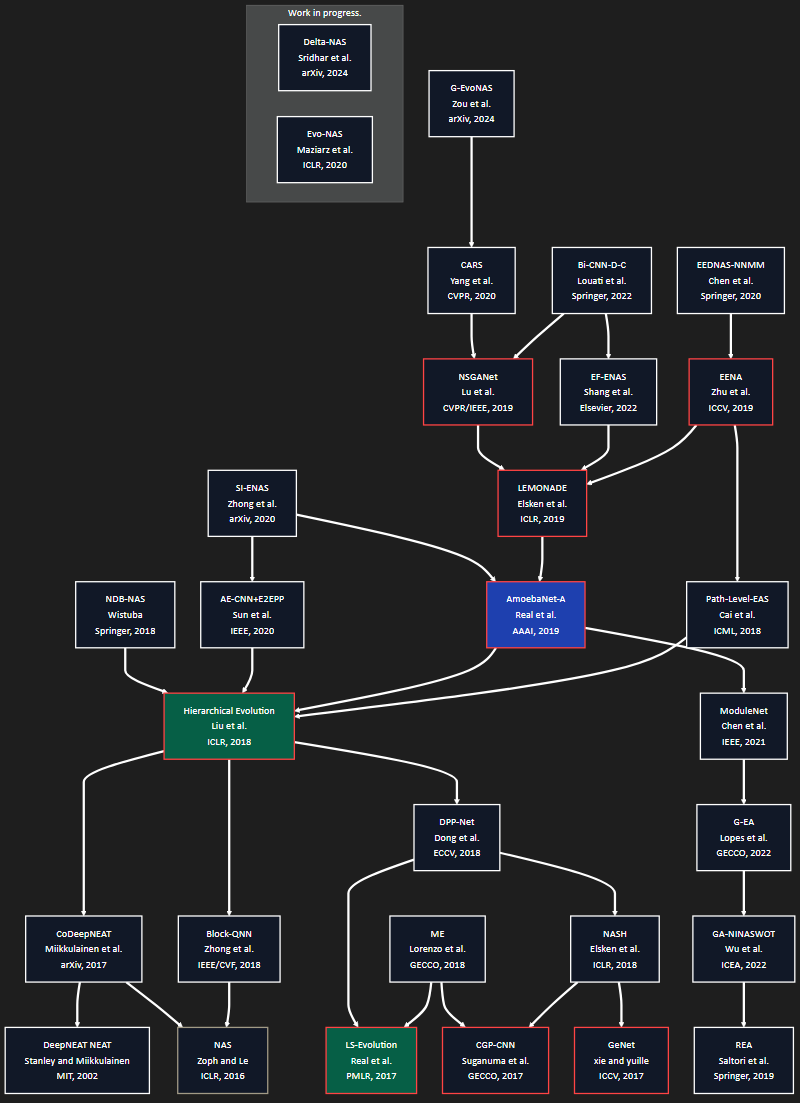
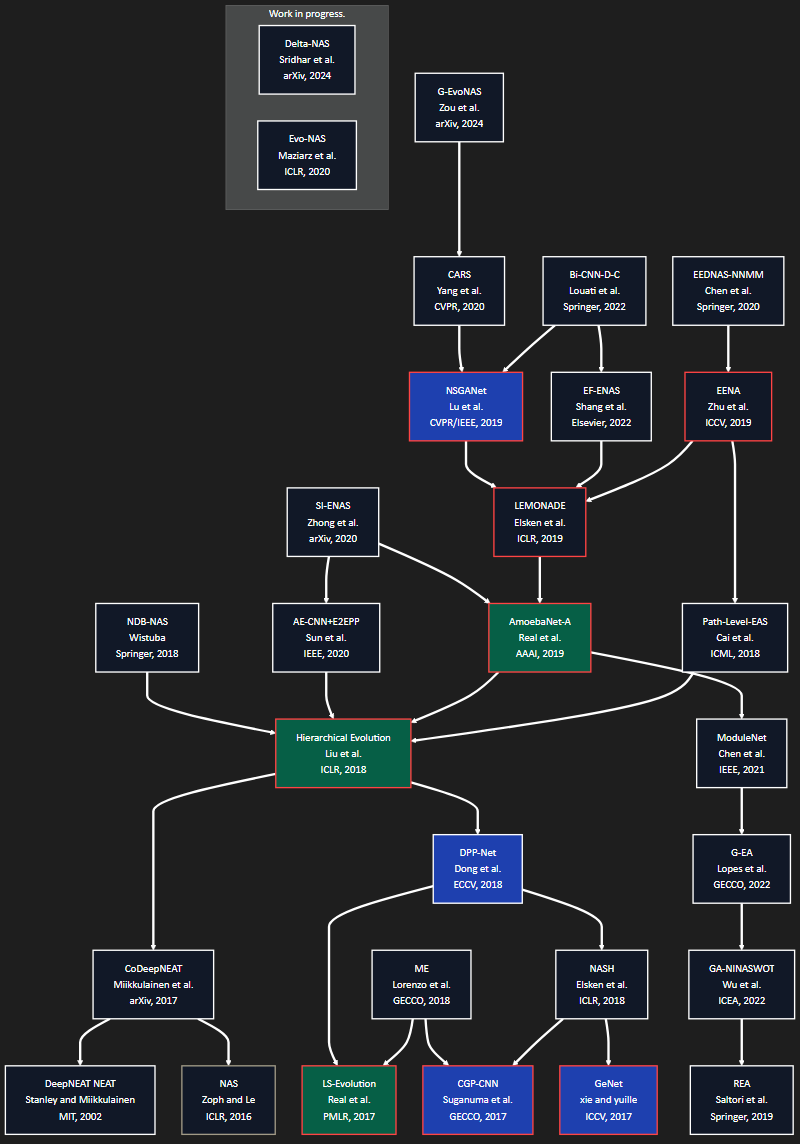
===2025/07/30===

Changed region(s): [[0.0, 0.0, 1.0, 1.0], [0.6875, 0.7706, 0.75, 0.8015], [0.9688, 0.9248, 1.0, 0.9556]]

diff --git a/paper_map.html b/paper_map.html
@@ -60,9 +60,9 @@ CoDeepNEAT["CoDeepNEAT
 
 %% 2018_Practical Block-wise Neural Network Architecture Generation, IEEE/CVF
 %% Zhao Zhong, Junjie Yan, Wei Wu, Jing Shao, Cheng-Lin Liu
-Block-QNN["Block-QNN
-          Zhong et al.
-          IEEE/CVF, 2018"]
+%%Block-QNN["Block-QNN
+%%          Zhong et al.
+%%          IEEE/CVF, 2018"]
 
 %% 2018_Memetic evolution of deep neural networks, GECCO
 %% PR Lorenzo, J Nalepa
@@ -233,10 +233,10 @@ G-EvoNAS["G-EvoNAS
 CoDeepNEAT --> NEAT
 CoDeepNEAT --> NAS
 
-Block-QNN --> NAS
+%%Block-QNN --> NAS
 
 HierarchicalEvolution ---> CoDeepNEAT 
-HierarchicalEvolution ---> Block-QNN
+%%HierarchicalEvolution ---> Block-QNN
 HierarchicalEvolution --> DPP-Net
 %%ESHR --> GeNet
 %%ESHR --> LS-Evolution
@@ -360,7 +360,7 @@ classDef hidden display: none;
 class NAS NAS
 class NSGANet,LS-Evolution,CGP-CNN,GeNet,HierarchicalEvolution,AmoebaNet-A,LEMONADE,EENA important
 class LS-Evolution,HierarchicalEvolution,AmoebaNet-A presented
-class AmoebaNet-A presenting
+class CGP-CNN,DPP-Net,NSGANet,GeNet presenting
 
 linkStyle default stroke:#ffffff,stroke-width:3.5px;
 
